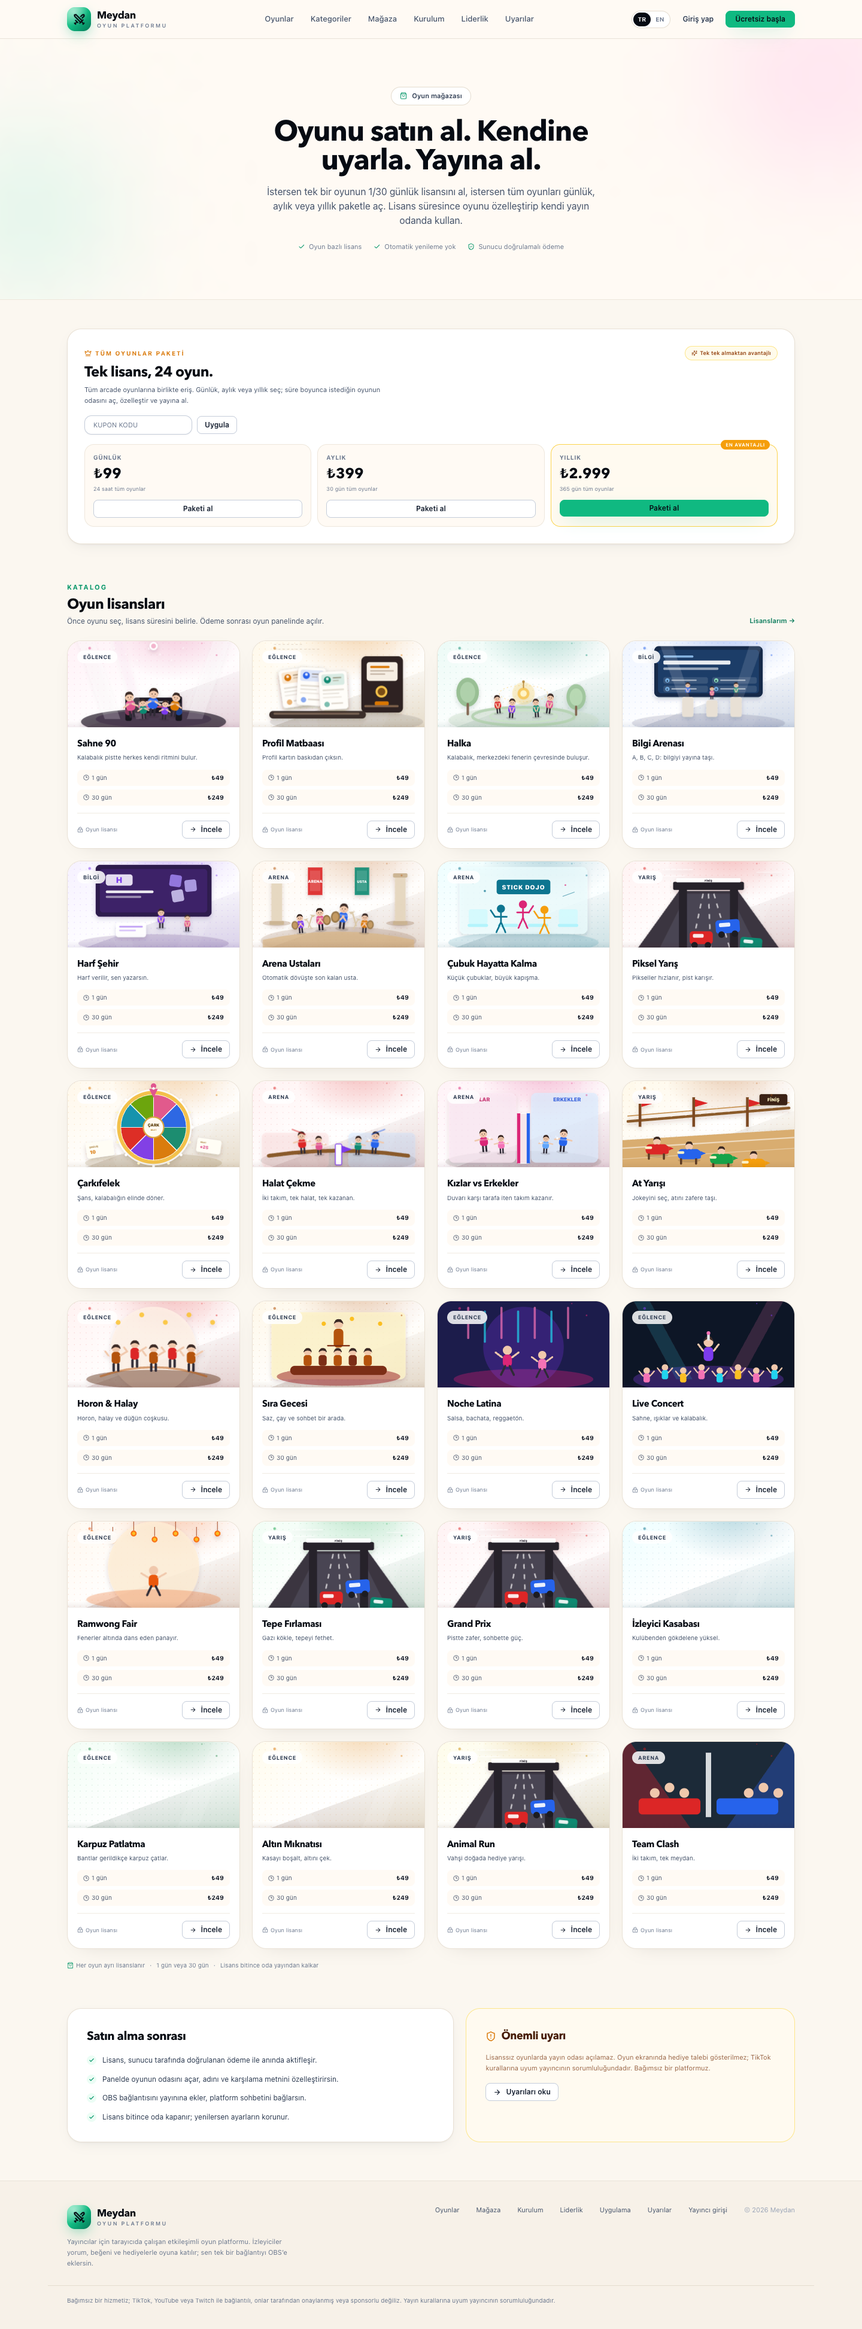
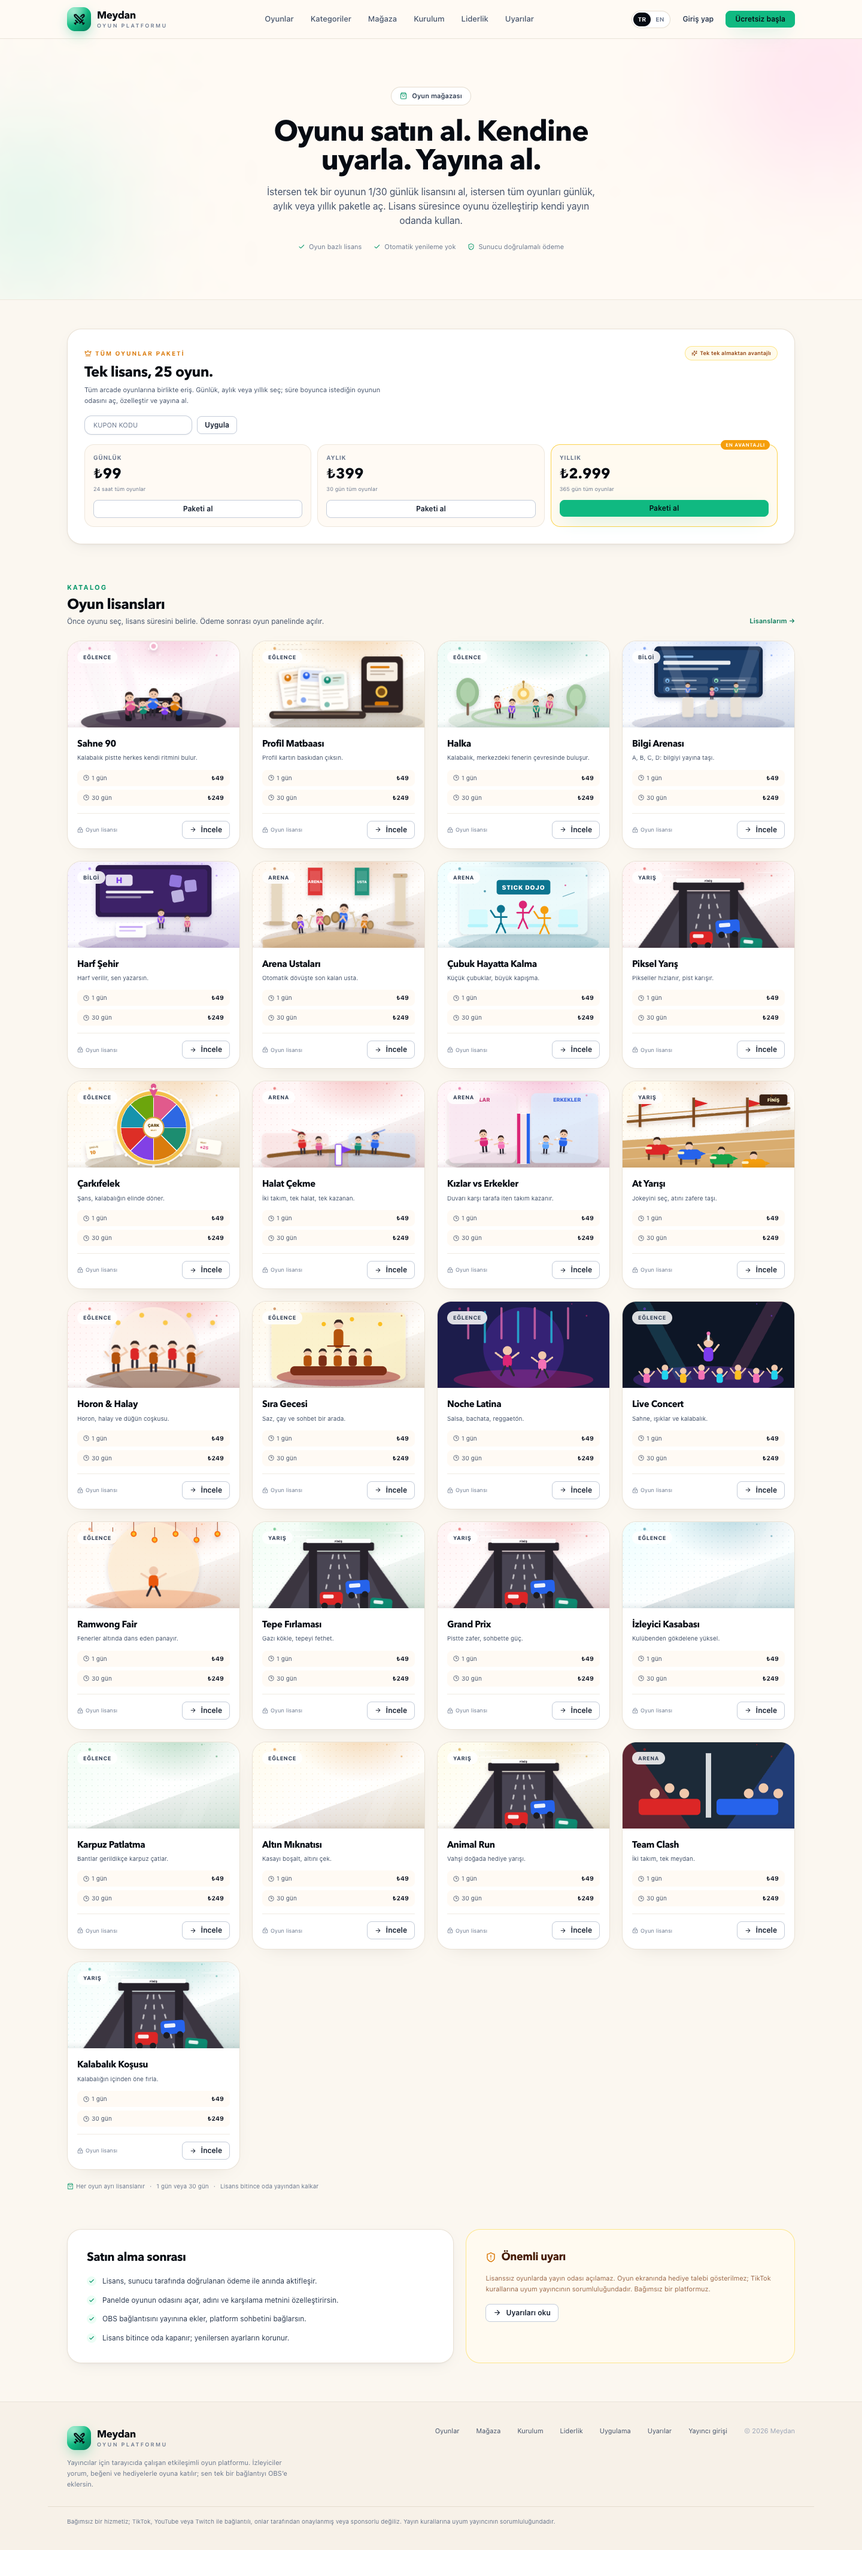
Kalabalık Koşusu oyununu ekle ve toplamı 25 yap

diff --git a/shared/arcade.ts b/shared/arcade.ts
@@ -31,6 +31,7 @@ export const ARCADE_KEYS = [
   'gold',
   'animal',
   'clash',
+  'crowd',
 ] as const;
 
 export type ArcadeKey = (typeof ARCADE_KEYS)[number];
@@ -645,6 +646,26 @@ export const ARCADE_GAMES: Record<ArcadeKey, ArcadeGameDef> = {
     durationSec: 80,
     maxPlayers: 60,
   },
+  crowd: {
+    key: 'crowd',
+    slug: 'kalabalik-kosusu',
+    name: 'Kalabalık Koşusu',
+    shortName: 'Kalabalık',
+    category: 'Yarış',
+    mode: 'race',
+    symbol: '🏃',
+    accent: '#0d9488',
+    soft: '#f0fdfa',
+    ink: '#042f2e',
+    tagline: 'Kalabalığın içinden öne fırla.',
+    description: 'İzleyiciler kendi koşucularıyla şehir sokaklarında yarışır. Beğeni hız, hediye jetpack etkisi verir; bitişe ilk ulaşan kazanır.',
+    howTo: ['Yoruma katıl.', 'Beğeni ile koş.', 'Hediye ile jetpack al.', 'Bitişe ilk gelen kazanır.'],
+    controls: ['Katıl', 'Beğen', 'Hediye'],
+    warnings: [GENERAL_WARNING],
+    risk: 'normal',
+    durationSec: 70,
+    maxPlayers: 50,
+  },
 };
 
 export interface HorseRacer {
@@ -1119,7 +1140,7 @@ function rankPlayers(state: ArcadeState): void {
     if (state.key === 'gladiator' || state.key === 'stick') {
       if (b.hp !== a.hp) return b.hp - a.hp;
     }
-    if (['kart', 'hill', 'grandprix', 'animal'].includes(state.key)) return b.progress - a.progress;
+    if (['kart', 'hill', 'grandprix', 'animal', 'crowd'].includes(state.key)) return b.progress - a.progress;
     return b.score - a.score;
   });
   sorted.forEach((player, index) => {
@@ -1343,7 +1364,7 @@ function finishArcadeRound(state: ArcadeState, now: number): void {
   let winner: ArcadePlayer | undefined;
   if (state.key === 'gladiator' || state.key === 'stick') {
     winner = alive.length === 1 ? alive[0] : [...state.players].sort((a, b) => b.hp - a.hp)[0];
-  } else if (['kart', 'hill', 'grandprix', 'animal', 'town'].includes(state.key)) {
+  } else if (['kart', 'hill', 'grandprix', 'animal', 'crowd', 'town'].includes(state.key)) {
     winner = [...state.players].sort((a, b) => b.progress - a.progress)[0];
   } else if (state.key === 'melon' || state.key === 'gold') {
     winner = [...state.players].sort((a, b) => b.score - a.score)[0];
@@ -1405,6 +1426,8 @@ function finishArcadeRound(state: ArcadeState, now: number): void {
                       ? 'Pistin şampiyonu'
                       : state.key === 'animal'
                         ? 'Ormanın hızırı'
+                        : state.key === 'crowd'
+                          ? 'Sokağın hızırı'
                         : state.key === 'town'
                           ? 'Kasabanın mimarı'
                           : state.key === 'melon'
@@ -1607,7 +1630,7 @@ export function arcadeTick(state: ArcadeState, now = Date.now()): void {
     return;
   }
 
-  if (['kart', 'hill', 'grandprix', 'animal', 'town'].includes(state.key)) {
+  if (['kart', 'hill', 'grandprix', 'animal', 'crowd', 'town'].includes(state.key)) {
     for (const player of state.players) {
       if (player.eliminated) continue;
       const base = state.key === 'town' ? 0.5 : state.key === 'grandprix' ? 0.7 : 0.62;
@@ -1703,7 +1726,7 @@ export function arcadeAction(
     else if (state.key === 'tug' && state.tug) addTugPull(state, player, 1.2);
     else if (['versus', 'clash'].includes(state.key) && state.wall) addWallPush(state, player, 0.5);
     else if (state.key === 'horse') pushHorse(state, player, 1);
-    else if (['hill', 'grandprix', 'animal', 'town'].includes(state.key)) player.progress = Math.min(100, player.progress + 1.2);
+    else if (['hill', 'grandprix', 'animal', 'crowd', 'town'].includes(state.key)) player.progress = Math.min(100, player.progress + 1.2);
     else if (state.key === 'melon' && state.melon) { state.melon.tension = Math.min(100, state.melon.tension + 1); player.score += 1; }
     else if (state.key === 'gold' && state.gold) { state.gold.pulled = Math.min(100, state.gold.pulled + 1); player.score += 1; }
     else player.score += state.key === 'quiz' || state.key === 'word' ? 0 : 1.5;
@@ -1723,7 +1746,7 @@ export function arcadeAction(
   }
 
   if (action === 'gift') {
-    if (['kart', 'hill', 'grandprix', 'animal'].includes(state.key)) player.progress = Math.min(100, player.progress + 7);
+    if (['kart', 'hill', 'grandprix', 'animal', 'crowd'].includes(state.key)) player.progress = Math.min(100, player.progress + 7);
     if (state.key === 'gladiator' || state.key === 'stick') {
       player.hp = Math.min(player.maxHp, player.hp + 16);
     }
@@ -1731,7 +1754,7 @@ export function arcadeAction(
     else if (state.key === 'tug' && state.tug) addTugPull(state, player, 13);
     else if (['versus', 'clash'].includes(state.key) && state.wall) addWallPush(state, player, 8);
     else if (state.key === 'horse') pushHorse(state, player, 10);
-    else if (['hill', 'grandprix', 'animal', 'town'].includes(state.key)) player.progress = Math.min(100, player.progress + 12);
+    else if (['hill', 'grandprix', 'animal', 'crowd', 'town'].includes(state.key)) player.progress = Math.min(100, player.progress + 12);
     else if (state.key === 'melon' && state.melon) { state.melon.tension = Math.min(100, state.melon.tension + 10); player.score += 10; }
     else if (state.key === 'gold' && state.gold) { state.gold.pulled = Math.min(100, state.gold.pulled + 10); player.score += 10; }
     else player.score += state.key === 'quiz' || state.key === 'word' ? 0 : 12;
@@ -1751,7 +1774,7 @@ export function arcadeAction(
   }
 
   // comment
-  if (['hill', 'grandprix', 'animal', 'town'].includes(state.key)) {
+  if (['hill', 'grandprix', 'animal', 'crowd', 'town'].includes(state.key)) {
     player.progress = Math.min(100, player.progress + 0.5);
     feed(state, `${player.name} tempoyu artırdı.`, 'answer', now);
     return { ok: true };
@@ -1898,7 +1921,7 @@ export function arcadeRunBots(state: ArcadeState, now = Date.now()): void {
       pushHorse(state, player, roll < 0.75 ? 1 : 6);
       continue;
     }
-    if (['hill', 'grandprix', 'animal', 'town'].includes(state.key)) {
+    if (['hill', 'grandprix', 'animal', 'crowd', 'town'].includes(state.key)) {
       player.progress = Math.min(100, player.progress + (roll < 0.75 ? 1 : 6));
       continue;
     }
@@ -1930,7 +1953,7 @@ export function arcadeRunBots(state: ArcadeState, now = Date.now()): void {
       player.score += 100;
       continue;
     }
-  if (['kart', 'hill', 'grandprix', 'animal'].includes(state.key)) {
+  if (['kart', 'hill', 'grandprix', 'animal', 'crowd'].includes(state.key)) {
       player.progress = Math.min(100, player.progress + 2);
       continue;
     }

diff --git a/web/src/arcade/renderer3d.ts b/web/src/arcade/renderer3d.ts
@@ -1370,13 +1370,14 @@ class Arcade3DRenderer implements Arcade3DHandle {
     const hillMode = this.game.key === 'hill';
     const grandPrix = this.game.key === 'grandprix';
     const animalMode = this.game.key === 'animal';
+    const crowdMode = this.game.key === 'crowd';
     this.baseCamera.set(0, 7.8, 14.5);
     this.lookTarget.set(0, 0.8, -2.5);
-    const sky = hillMode ? '#ecfdf5' : grandPrix ? '#fff1f2' : animalMode ? '#fefce8' : '#eef7ff';
+    const sky = hillMode ? '#ecfdf5' : grandPrix ? '#fff1f2' : animalMode ? '#fefce8' : crowdMode ? '#ecfeff' : '#eef7ff';
     this.scene.background = new THREE.Color(sky);
     this.scene.fog = new THREE.Fog(new THREE.Color(sky), 26, 52);
 
-    const ground = new THREE.Mesh(new THREE.PlaneGeometry(34, 44), softMat(hillMode || animalMode ? '#bbf7d0' : grandPrix ? '#fecdd3' : '#dcebdc'));
+    const ground = new THREE.Mesh(new THREE.PlaneGeometry(34, 44), softMat(hillMode || animalMode ? '#bbf7d0' : grandPrix ? '#fecdd3' : crowdMode ? '#cffafe' : '#dcebdc'));
     ground.rotation.x = -Math.PI / 2;
     ground.position.z = -4;
     ground.receiveShadow = true;
@@ -1386,7 +1387,7 @@ class Arcade3DRenderer implements Arcade3DHandle {
     const road = new THREE.Mesh(
       new THREE.PlaneGeometry(13, 27),
       new THREE.MeshStandardMaterial({
-        color: hillMode ? 0x9a6b3f : animalMode ? 0x8b6b3f : grandPrix ? 0x2b2b33 : 0x3d3d4a,
+        color: hillMode ? 0x9a6b3f : animalMode ? 0x8b6b3f : grandPrix ? 0x2b2b33 : crowdMode ? 0x475569 : 0x3d3d4a,
         roughness: 0.88,
       }),
     );
@@ -2774,6 +2775,7 @@ class Arcade3DRenderer implements Arcade3DHandle {
     const hillMode = this.game.key === 'hill';
     const grandPrix = this.game.key === 'grandprix';
     const animalMode = this.game.key === 'animal';
+    const crowdMode = this.game.key === 'crowd';
     const group = new THREE.Group();
     const shadow = shadowMesh(0.55);
     group.add(shadow);
@@ -2784,11 +2786,13 @@ class Arcade3DRenderer implements Arcade3DHandle {
           ? new THREE.BoxGeometry(0.9, 0.3, 1.85)
           : animalMode
             ? new THREE.CapsuleGeometry(0.34, 0.85, 6, 10)
-            : new THREE.BoxGeometry(1.15, 0.46, 1.6),
+            : crowdMode
+              ? new THREE.CapsuleGeometry(0.3, 0.7, 6, 10)
+              : new THREE.BoxGeometry(1.15, 0.46, 1.6),
       new THREE.MeshStandardMaterial({ color: player.color, roughness: 0.35, metalness: 0.15 }),
     );
-    body.position.y = animalMode ? 0.72 : hillMode ? 0.5 : grandPrix ? 0.38 : 0.45;
-    if (animalMode) body.rotation.z = Math.PI / 2;
+    body.position.y = animalMode ? 0.72 : crowdMode ? 0.82 : hillMode ? 0.5 : grandPrix ? 0.38 : 0.45;
+    if (animalMode || crowdMode) body.rotation.z = Math.PI / 2;
     body.castShadow = true;
     group.add(body);
     const cabin = new THREE.Mesh(
@@ -2798,10 +2802,12 @@ class Arcade3DRenderer implements Arcade3DHandle {
           ? new THREE.BoxGeometry(0.48, 0.25, 0.5)
           : animalMode
             ? new THREE.SphereGeometry(0.34, 14, 10)
-            : new THREE.BoxGeometry(0.68, 0.38, 0.68),
+            : crowdMode
+              ? new THREE.SphereGeometry(0.28, 14, 10)
+              : new THREE.BoxGeometry(0.68, 0.38, 0.68),
       new THREE.MeshStandardMaterial({ color: animalMode ? player.color : hillMode ? player.color : 0xf8fafc, roughness: 0.25 }),
     );
-    cabin.position.set(0, animalMode ? 0.9 : hillMode ? 0.84 : grandPrix ? 0.56 : 0.7, animalMode ? -0.8 : 0.12);
+    cabin.position.set(0, animalMode ? 0.9 : crowdMode ? 1.28 : hillMode ? 0.84 : grandPrix ? 0.56 : 0.7, animalMode ? -0.8 : crowdMode ? -0.62 : 0.12);
     group.add(cabin);
     if (animalMode) {
       for (const [x, z] of [[-0.45, 0.45], [0.45, 0.45], [-0.45, -0.45], [0.45, -0.45]] as const) {
@@ -2812,6 +2818,17 @@ class Arcade3DRenderer implements Arcade3DHandle {
       const ear = new THREE.Mesh(new THREE.ConeGeometry(0.12, 0.3, 8), mat(player.color));
       ear.position.set(0, 1.35, -0.9);
       group.add(ear);
+    }
+    if (crowdMode) {
+      for (const x of [-0.32, 0.32]) {
+        const leg = new THREE.Mesh(new THREE.CylinderGeometry(0.09, 0.07, 0.7, 8), mat(0x1f2937));
+        leg.position.set(x, 0.35, 0);
+        group.add(leg);
+        const arm = new THREE.Mesh(new THREE.CylinderGeometry(0.07, 0.05, 0.55, 8), mat(player.color));
+        arm.position.set(x * 1.8, 1.0, 0);
+        arm.rotation.z = x > 0 ? -0.65 : 0.65;
+        group.add(arm);
+      }
     }
     if (grandPrix) {
       const wing = new THREE.Mesh(new THREE.BoxGeometry(1.7, 0.07, 0.32), new THREE.MeshStandardMaterial({ color: 0x2b2b33 }));

diff --git a/web/src/components/GameArt.tsx b/web/src/components/GameArt.tsx
@@ -408,6 +408,28 @@ function Gold({ game, id }: { game: ArcadeGameDef; id: string }) {
     </g>
   );
 }
+
+function Crowd({ game, id }: { game: ArcadeGameDef; id: string }) {
+  return (
+    <g>
+      <rect width="640" height="400" fill="#ecfeff" />
+      <rect x="0" y="300" width="640" height="100" fill="#94a3b8" />
+      {[0, 1, 2, 3, 4, 5, 6, 7].map((i) => (
+        <g key={i} transform={`translate(${80 + i * 66} ${280 - (i % 3) * 28})`}>
+          <circle cx="0" cy="-36" r="15" fill="#f0c8ac" />
+          <rect x="-14" y="-20" width="28" height="48" rx="11" fill={['#e0558f', '#2563eb', '#0f8a72', '#d97706'][i % 4]} />
+          <path d="M-12 24 L-24 62 M12 24 L24 62" stroke="#1f2937" strokeWidth="9" strokeLinecap="round" />
+          <path d="M-14 -8 L-30 -26 M14 -8 L30 -26" stroke="#f0c8ac" strokeWidth="6" strokeLinecap="round" />
+        </g>
+      ))}
+      <g transform="translate(320 70)">
+        <rect x="-100" y="-22" width="200" height="42" rx="10" fill="#0d9488" />
+        <text x="0" y="6" textAnchor="middle" fontFamily="system-ui" fontSize="16" fontWeight="900" fill="#ecfeff">CROWD RACE</text>
+      </g>
+      <text x="320" y="370" textAnchor="middle" fontFamily="system-ui" fontSize="12" fontWeight="700" fill="#0f766e" opacity="0.7">KALABALIĞIN İÇİNDEN ÖNE FIRLA</text>
+    </g>
+  );
+}
 function Clash({ game, id }: { game: ArcadeGameDef; id: string }) {
   return (
     <g>

diff --git a/web/src/i18n/en.ts b/web/src/i18n/en.ts
@@ -1856,5 +1856,17 @@ export const EN_TEXT: Record<string, string> = {
   "24 oyun. Tek yayın bağlantısı.": "24 games. One broadcast link.",
   "24 arcade + 3D stüdyo": "24 arcade + 3D studio",
   "Yirmi dört oyunlu platform": "Twenty-four-game platform",
-  "Yirmi dört oyun, tek hesap": "Twenty-four games, one account"
+  "Yirmi dört oyun, tek hesap": "Twenty-four games, one account",
+  "Kalabalık Koşusu": "Crowd Race",
+  "Kalabalığın içinden öne fırla.": "Break out of the crowd.",
+  "İzleyiciler kendi koşucularıyla şehir sokaklarında yarışır. Beğeni hız, hediye jetpack etkisi verir; bitişe ilk ulaşan kazanır.": "Viewers race their own runners through city streets. Likes give speed, gifts give a jetpack; first to the finish wins.",
+  "Yoruma katıl.": "Join with a comment.",
+  "Beğeni ile koş.": "Run with likes.",
+  "Hediye ile jetpack al.": "Get a jetpack with gifts.",
+  "Bitişe ilk gelen kazanır.": "First to the finish wins.",
+  "yirmi beş oyun.": "twenty-five games.",
+  "25 oynanabilir oyun": "25 playable games",
+  "25 oyun. Tek yayın bağlantısı.": "25 games. One broadcast link.",
+  "25 arcade + 3D stüdyo": "25 arcade + 3D studio",
+  "Yirmi beş oyunlu platform": "Twenty-five-game platform"
 };

diff --git a/web/src/pages/marketing/PlatformHomePage.tsx b/web/src/pages/marketing/PlatformHomePage.tsx
@@ -124,7 +124,7 @@ export function PlatformHomePage() {
             <h1 className="mt-5 max-w-2xl text-balance font-display text-[42px] font-bold leading-[1.02] tracking-tight text-ink-950 sm:text-6xl">
               Sohbetin oynadığı
               <span className="relative mt-1 block w-fit text-brand-700">
-                yirmi dört oyun.
+                yirmi beş oyun.
                 <svg viewBox="0 0 200 14" className="absolute -bottom-1 left-0 h-3 w-full" aria-hidden>
                   <path d="M3 10 Q60 2 100 7 T197 4" fill="none" stroke="#34b58b" strokeWidth="5" strokeLinecap="round" opacity="0.35" />
                 </svg>
@@ -148,7 +148,7 @@ export function PlatformHomePage() {
             </div>
             <div className="mt-8 flex flex-wrap gap-x-6 gap-y-2 text-[11px] text-ink-400">
               <span className="inline-flex items-center gap-1.5">
-                <Check size={12} className="text-brand-600" /> 24 oynanabilir oyun
+                <Check size={12} className="text-brand-600" /> 25 oynanabilir oyun
               </span>
               <span className="inline-flex items-center gap-1.5">
                 <Check size={12} className="text-brand-600" /> Günde 30 dk ücretsiz deneme

diff --git a/tests/arcade-rooms.test.ts b/tests/arcade-rooms.test.ts
@@ -515,18 +515,18 @@ describe('yayıncıya özel arcade odaları', () => {
     });
     expect(paid.statusCode).toBe(200);
     const me = await server.inject({ method: 'GET', url: '/api/auth/me', headers: { cookie: user.cookie } });
-    expect(me.json().licenses).toHaveLength(24);
+    expect(me.json().licenses).toHaveLength(25);
   });
 
-  it('tüm oyunlar paketi 24 oyun lisansını birlikte açar', async () => {
+  it('tüm oyunlar paketi 25 oyun lisansını birlikte açar', async () => {
     built = await makeApp();
     const { app: server } = built;
     const user = await registerUser(server);
     await buyGame(server, user.cookie, 'offer_bundle_all_1d');
 
     const me = await server.inject({ method: 'GET', url: '/api/auth/me', headers: { cookie: user.cookie } });
-    expect(me.json().licenses).toHaveLength(24);
-    expect(new Set(me.json().licenses.map((license: any) => license.gameKey)).size).toBe(24);
+    expect(me.json().licenses).toHaveLength(25);
+    expect(new Set(me.json().licenses.map((license: any) => license.gameKey)).size).toBe(25);
 
     const room = await server.inject({
       method: 'POST',

diff --git a/web/src/pages/auth/AuthShell.tsx b/web/src/pages/auth/AuthShell.tsx
@@ -60,7 +60,7 @@ export function AuthShell({
           <div className="flex justify-end">
             <span className="inline-flex items-center gap-2 rounded-full border border-[#e4dccf] bg-white px-3.5 py-1.5 text-[11px] font-semibold text-ink-500">
               <span className="h-1.5 w-1.5 rounded-full bg-brand-500" />
-              Yirmi dört oyunlu platform
+              Yirmi beş oyunlu platform
             </span>
           </div>
 
@@ -79,7 +79,7 @@ export function AuthShell({
               Sohbetin hazır. Sahne senin.
             </h2>
             <p className="mt-3 text-sm leading-relaxed text-ink-500">
-              Yirmi dört oyun, tek hesap ve kalıcı yayın bağlantısı. Oyunu seç, OBS’e ekle, yayını
+              Yirmi beş oyun, tek hesap ve kalıcı yayın bağlantısı. Oyunu seç, OBS’e ekle, yayını
               başlat.
             </p>
 

diff --git a/tests/arcade.test.ts b/tests/arcade.test.ts
@@ -205,12 +205,12 @@ describe('arcade motoru', () => {
 });
 
 describe('arcade API ve WebSocket', () => {
-  it('yirmi dört oyunu listeler ve odaya katılımı kabul eder', async () => {
+  it('yirmi beş oyunu listeler ve odaya katılımı kabul eder', async () => {
     built = await makeApp();
     const { app: server } = built;
     const games = await server.inject({ method: 'GET', url: '/api/arcade/games' });
     expect(games.statusCode).toBe(200);
-    expect(games.json().games).toHaveLength(24);
+    expect(games.json().games).toHaveLength(25);
     expect(games.json().games[0].slug).toBe('sahne-90');
 
     const port = await listen(server);

diff --git a/web/src/pages/marketing/GamesPage.tsx b/web/src/pages/marketing/GamesPage.tsx
@@ -82,7 +82,7 @@ export function GamesPage() {
                 <Gamepad2 size={12} className="text-brand-600" /> Oyun platformu
               </span>
               <h1 className="mt-5 max-w-2xl text-balance font-display text-4xl font-bold leading-[1.05] tracking-tight text-ink-950 sm:text-5xl">
-                24 oyun. Tek yayın bağlantısı.
+                25 oyun. Tek yayın bağlantısı.
               </h1>
               <p className="mt-4 max-w-2xl text-sm leading-relaxed text-ink-500 sm:text-base">
                 İzleyicilerin yorum, beğeni ve hediyeleriyle oynanan oyunlar. Her oyunun kendi

diff --git a/web/src/pages/admin/AdminGamesPage.tsx b/web/src/pages/admin/AdminGamesPage.tsx
@@ -18,7 +18,7 @@ export function AdminGamesPage() {
       <PageHeader
         eyebrow="Süper admin"
         title="Oyun kataloğu"
-        description="Platformda yayında olan yirmi dört oyun. İçerikler ve görseller kod tabanlıdır; fiyat ve süreler Paketler ekranından yönetilir."
+        description="Platformda yayında olan yirmi beş oyun. İçerikler ve görseller kod tabanlıdır; fiyat ve süreler Paketler ekranından yönetilir."
         actions={
           <Link to="/oyunlar" target="_blank">
             <Button variant="secondary" icon={<ArrowUpRight size={15} />}>

diff --git a/web/src/components/PricingPlans.tsx b/web/src/components/PricingPlans.tsx
@@ -63,7 +63,7 @@ export function PricingPlans({
             Günlük, haftalık veya aylık. Ne kadar yayın yaparsan o kadar.
           </h2>
           <p className="mt-3 text-sm leading-relaxed text-ink-500 sm:text-base">
-            Yirmi dört oyun, tek yayıncı hesabı ve kalıcı OBS bağlantısı. Süre bitmeden yenilersen
+            Yirmi beş oyun, tek yayıncı hesabı ve kalıcı OBS bağlantısı. Süre bitmeden yenilersen
             kalan günlerin üzerine eklenir.
           </p>
         </div>

diff --git a/web/src/components/PanelLayout.tsx b/web/src/components/PanelLayout.tsx
@@ -110,7 +110,7 @@ function SidebarContent({ onNavigate }: { onNavigate?: () => void }) {
             <span className="badge-ok text-[9px]">{me?.licenses.length ?? 0} arcade</span>
           </div>
           <p className="mt-1.5 text-sm font-semibold text-ink-900">
-            {game ? '24 arcade + 3D stüdyo' : 'Oyunlarını keşfet'}
+            {game ? '25 arcade + 3D stüdyo' : 'Oyunlarını keşfet'}
           </p>
           <p className="mt-0.5 text-[11px] text-ink-500">
             {game
